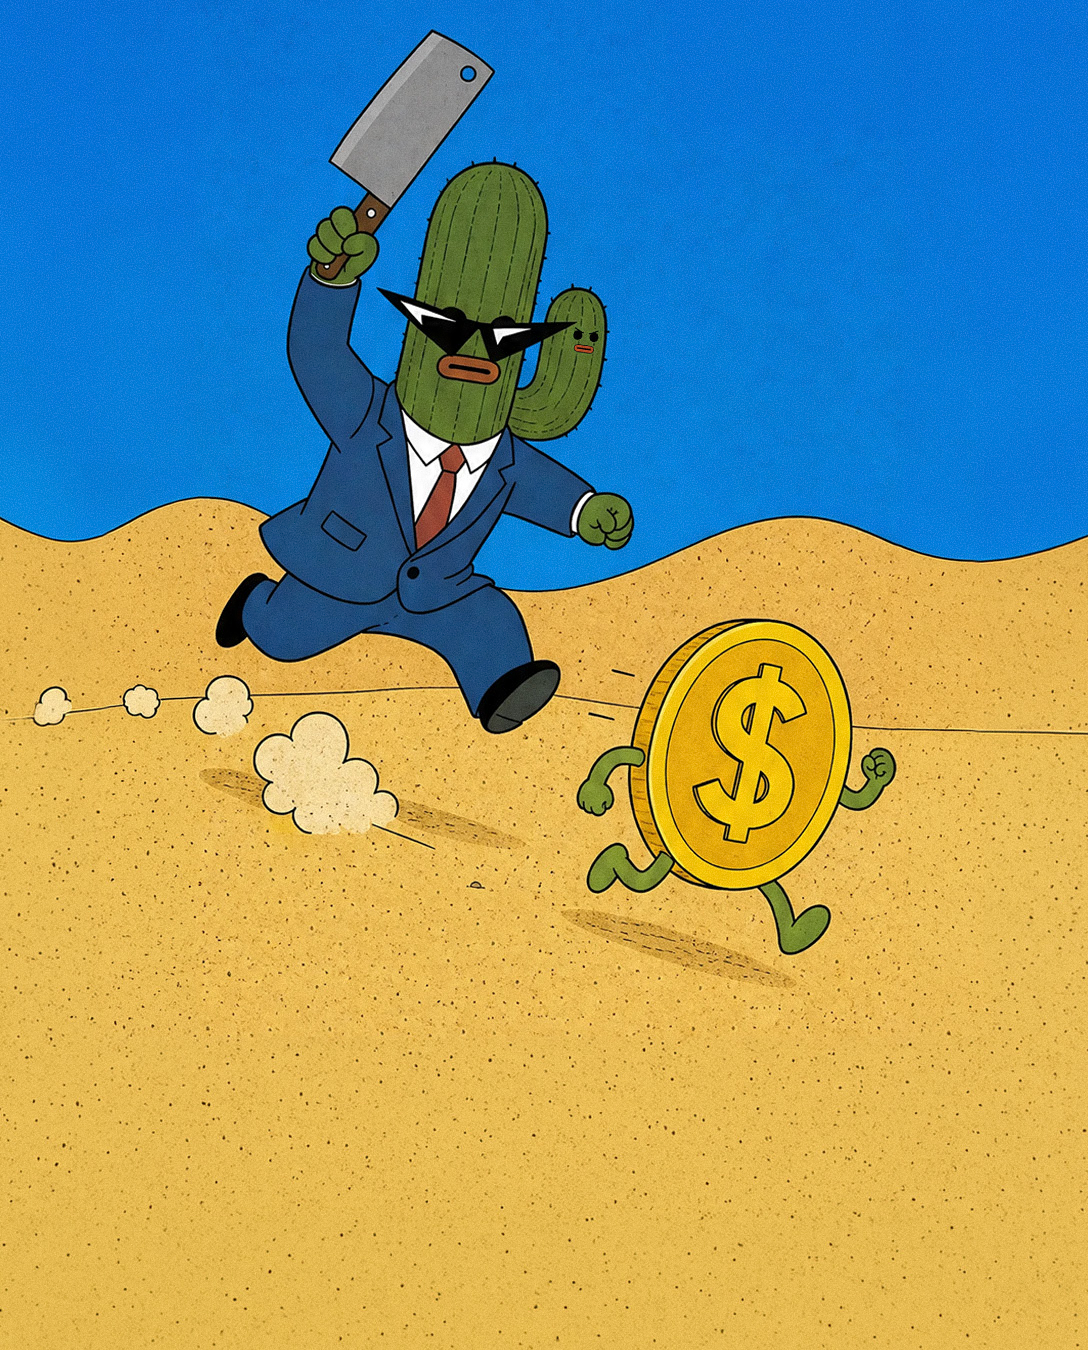
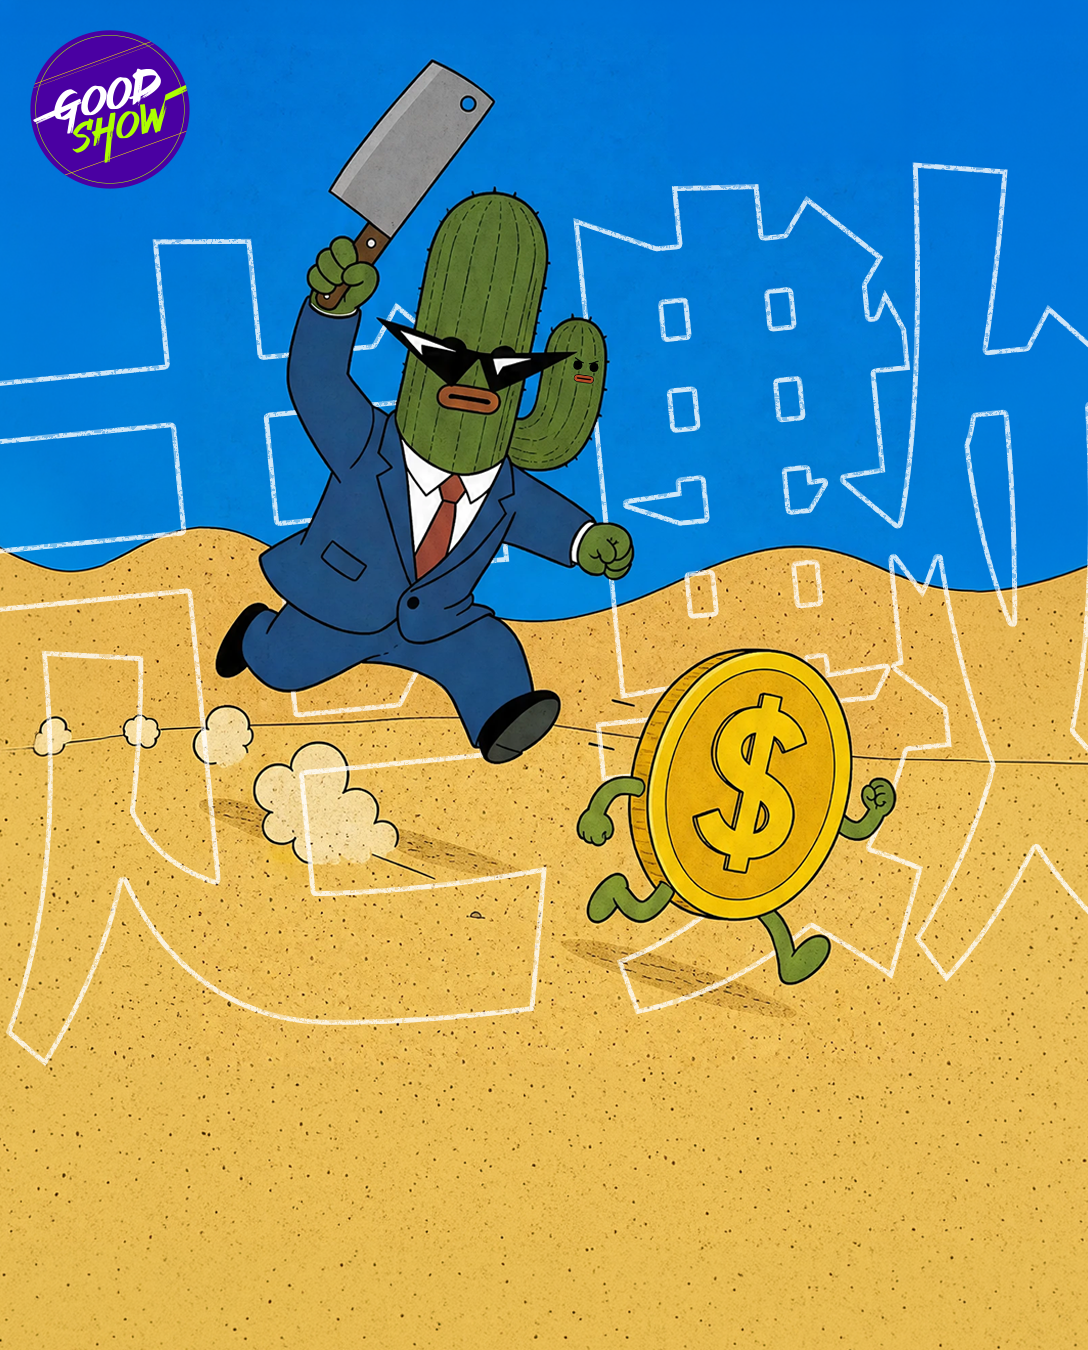
Update cover and rename game

diff --git a/index.html b/index.html
@@ -4,7 +4,7 @@
   <meta charset="UTF-8" />
   <meta name="viewport" content="width=device-width, initial-scale=1.0, viewport-fit=cover" />
   <meta name="theme-color" content="#000000" />
-  <title>PAC-COIN · 8-BIT MAZE</title>
+  <title>走數傳奇</title>
 </head>
 <body>
   <div id="app">
